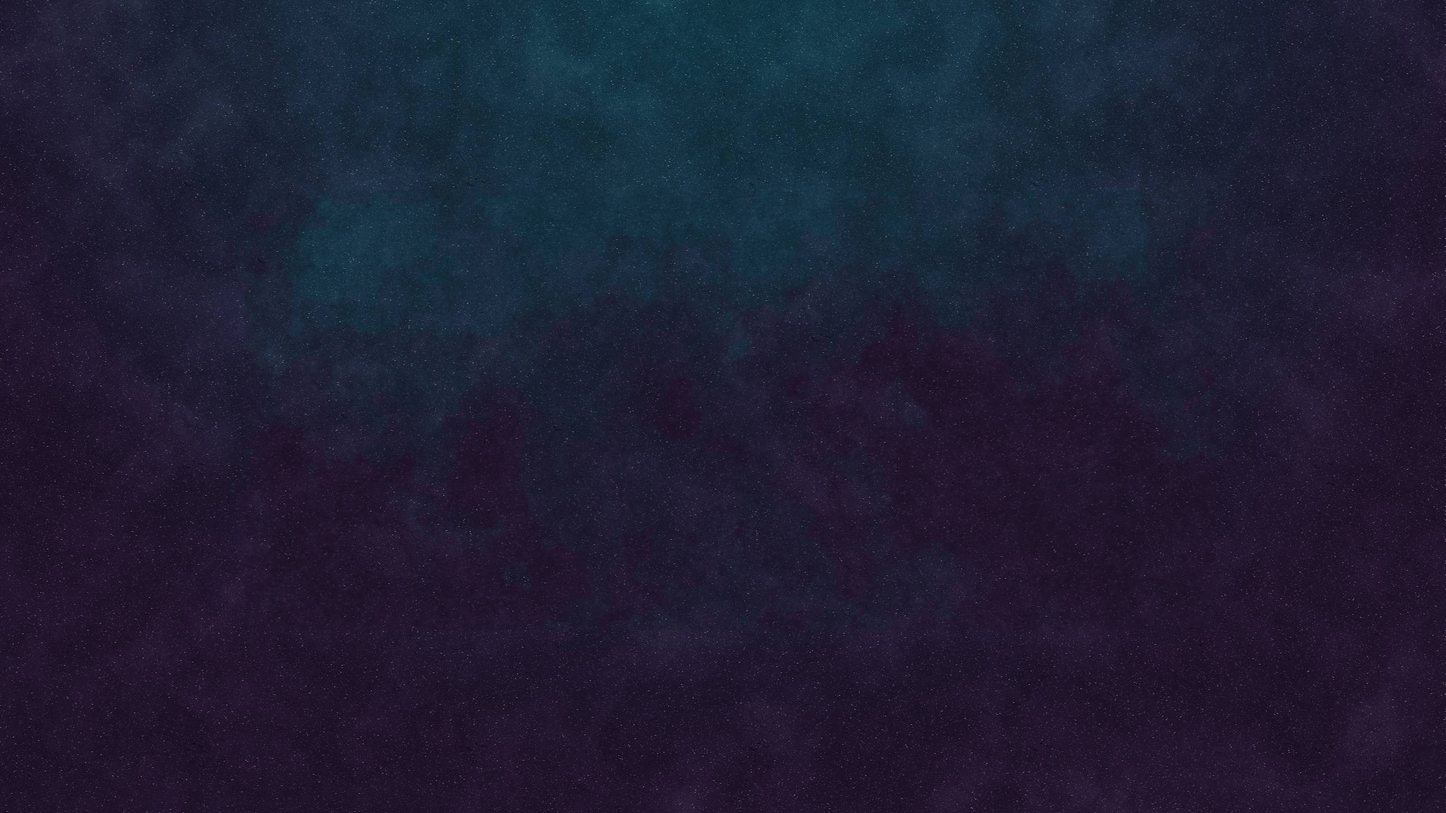
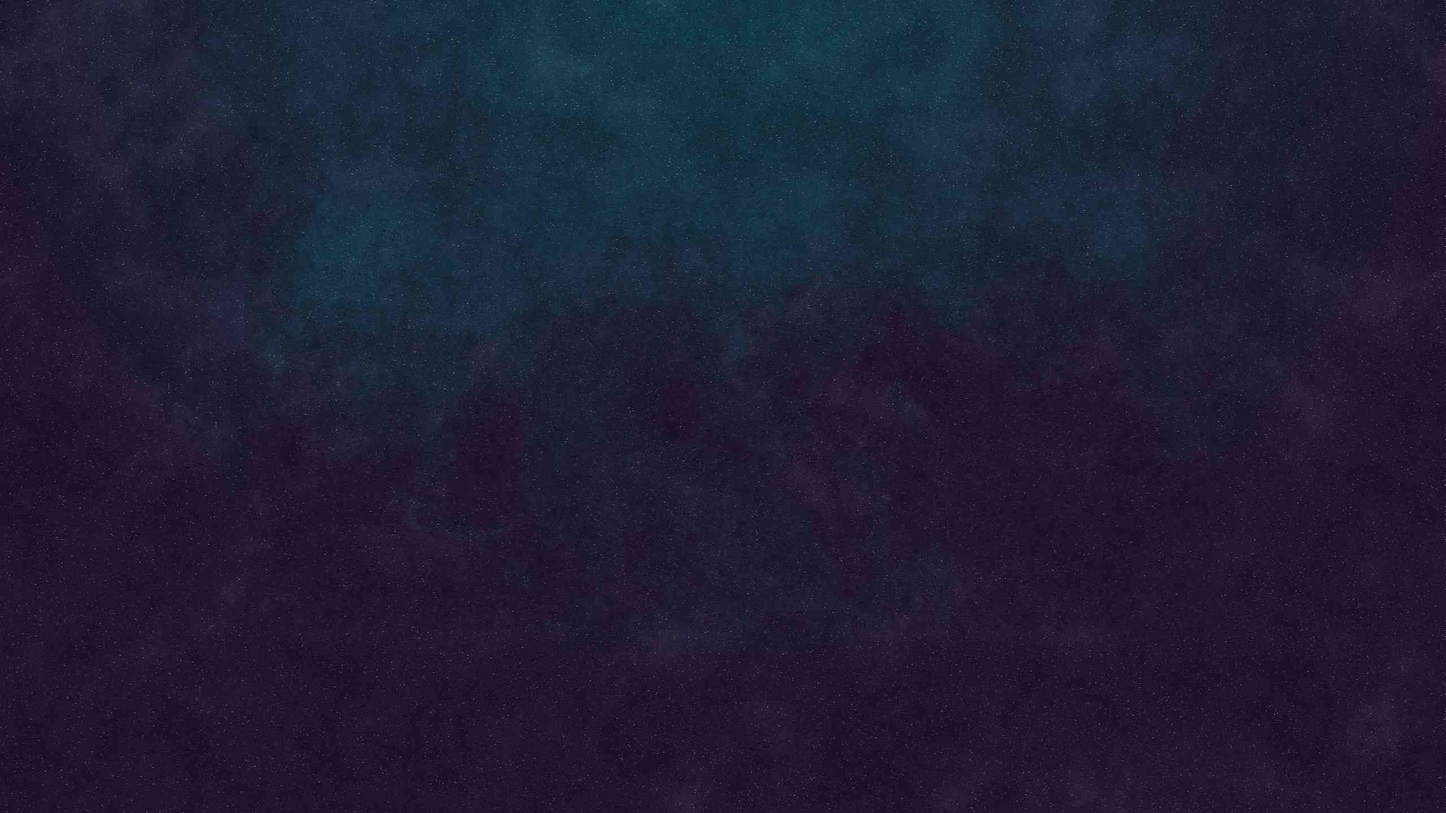
compress images

diff --git a/Static/Scripts/script.js b/Static/Scripts/script.js
@@ -1,15 +1,3 @@
-var header=document.querySelector('#header-main');
-
-var i=0;
-header.addEventListener('click',function () {
-	var arr=["red","green","blue"];
-
-	this.style.background=arr[i%3];
-	i++;
-});
-
-var spec=document.querySelector('#specialization');
-Yspec=spec.getBoundingClientRect().y;
 
 var nav=document.querySelector('#navigation');
 var navList=nav.querySelectorAll('li');
@@ -29,6 +17,12 @@ var j=0;
 		Ydist=dist.getBoundingClientRect().y;
  		console.log(Ydist);
 
+ 		// while(scrollY<Ydist){
+ 		// 	setTimeout(function(){
+ 		// 		scrollTo(0,scrollY+15);
+ 		// 	},1);
+ 		// }
+
  		y=setInterval(function(){
  			if(scrollY+20>Ydist){
  				clearTimeout(y);
@@ -36,7 +30,7 @@ var j=0;
  			if ((window.innerHeight + window.scrollY + 20) >= document.body.offsetHeight) {
         		clearTimeout(y);
     		}
- 			scrollTo(0,scrollY+10);
+ 			scrollTo(0,scrollY+15);
  		},1);
  		
 
